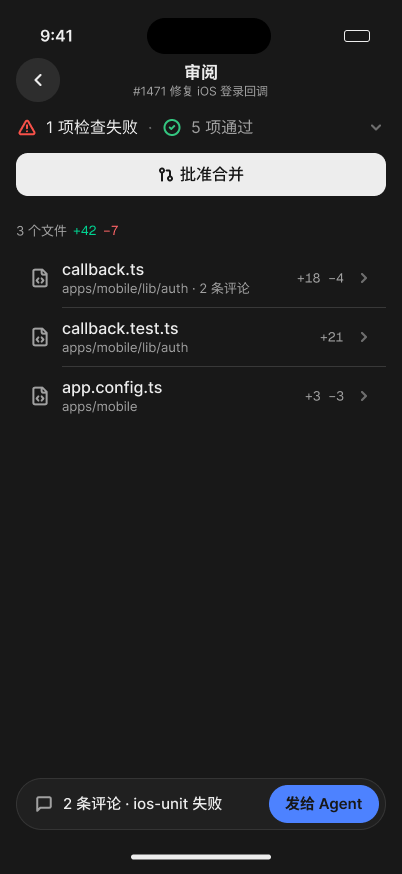
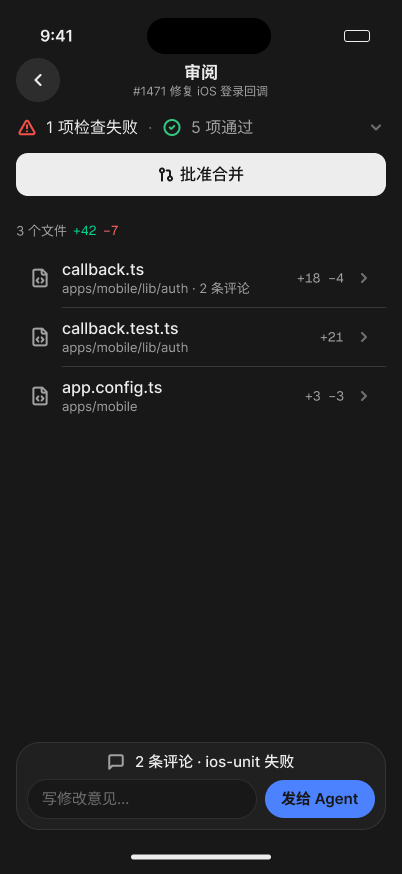
docs(research): iPhone 悬浮条始终有「写修改意见…」，新增 R2b 修改意见 sheet
Claude-Session: https://claude.ai/code/session_01XDndLThEHgcdfvzQakrYDT

Changed region(s): [[0.0896, 0.8341, 0.9552, 0.9577]]

diff --git a/docs/design/decisions/2026-11-08-1230-coding-workspace.md b/docs/design/decisions/2026-11-08-1230-coding-workspace.md
@@ -36,7 +36,8 @@ The frames are a structure sketch, not a visual spec. They are on Figma `zPe5LKy
 | R1b 检查展开 | The check summary expands in place: the failing check with a log excerpt, 查看完整日志 and 附到评论; the passing checks in one row. | `1120:1542` | `1120:1895` |
 | R4 文件 | The top bar's ⋯ is open with 文件 checked (Conductor's All files): the repository tree, with changed files marked, and read-only source on the right. | `1125:22` | `1125:481` |
 | R5 终端 | The top bar's ⋯ is open with 终端 checked (or ⌘J): a bottom drawer on the review page. Teammates see the terminal read-only. | `1125:786` | `1125:1163` |
-| R2 iPhone 审阅 | Opened in one tap from the chat card's summary line. Under one centred title, the first row is the check summary (tap to expand) with 批准合并, then the changed files, and the floating 「N 条评论 · 发给 Agent」 bar. | `1121:54` | `1121:169` |
+| R2 iPhone 审阅 | Opened in one tap from the chat card's summary line. Under one centred title, the first row is the check summary (tap to expand) with 批准合并, then the changed files, and the floating bar: 「N 条评论 · 失败检查」 above 「写修改意见…」 and 发给 Agent. The bar is always there, also with no comments. | `1121:54` | `1121:169` |
+| R2b iPhone 修改意见 | Tap 「写修改意见…」: a sheet titled 「修改意见」 with ✕, a text area and a full-width 「发给 Agent」. A general note can be sent with no line comments; with comments, they go in the same message. | `1134:10` | `1134:119` |
 | R3 iPhone 文件 diff | A file's diff with inline comments and the floating bar. | `1121:274` | `1121:359` |
 | R3b iPhone 加评论 | Tap a line: a sheet titled 「第 22 行」 with the line, an input and 「加入评论」. The comment joins the floating batch. | `1131:224` | `1131:328` |
 | R2a iPhone 任务详情 | The iOS task detail has the summary row 「PR #1471 · +42 −7 · ⚠ 1 项失败 ›」 under the title; one tap opens R2. | `1131:2` | `1131:152` |
@@ -101,6 +102,7 @@ Every state can be reached and left from the screen; none is a dead end.
 | Teammate (R11) | A teammate opens any entry | ✕; disabled actions say why |
 | Fallbacks (R12) | No changes, a change too big, or the machine reclaimed | Per-file 加载; the source line says which checkpoint or PR is shown |
 | iPhone task (R2a) → review (R2) → diff (R3) → add comment (R3b) | The task, then its summary row, then a file, then a line | Back at each step; 加入评论 → R3; 发给 Agent → the task conversation |
+| iPhone note sheet (R2b) | 「写修改意见…」 in R2's floating bar | ✕ or swipe down → R2; 发给 Agent → the task conversation (「你：修改意见」, plus any comments) |
 
 ## Scope
 
@@ -113,6 +115,6 @@ Scope and priorities stay as [#1720](https://github.com/alexj11324/Mikka/issues/
 | Terminal, run actions (#1723, #1727, #1733) | ⋯ › 终端 or ⌘J: a bottom drawer on the review page (R5) |
 | Dev preview, ports (#1724, #1733) | ⋯ › 预览. It opens in the app's browser column (R-57) or a pop-out window |
 | Git history, undo, commit filter (#1726) | 按提交筛选 in the diff header; file and hunk actions on the review page |
-| iPhone | R2, R3 |
+| iPhone | R2, R2b, R3 |
 
 The rest of #1720 (#1728, #1729, #1730, #1734, #1735) keeps its priorities. When any of it gets a surface, it goes on the review page, never as a new tab on the task panel.

diff --git a/docs/research/2026-11-08-coding-workspace-layout.md b/docs/research/2026-11-08-coding-workspace-layout.md
@@ -35,6 +35,7 @@
 | R12 空和兜底状态 | `1130:2689` | `1130:3038` | [浅](assets/2026-11-08-ws-r12-fallbacks-light.png) · [深](assets/2026-11-08-ws-r12-fallbacks-dark.png) |
 | R2a iPhone 任务详情（摘要行 → R2） | `1131:2` | `1131:152` | [浅](assets/2026-11-08-ws-r2a-iphone-task-light.png) · [深](assets/2026-11-08-ws-r2a-iphone-task-dark.png) |
 | R3b iPhone 加评论 | `1131:224` | `1131:328` | [浅](assets/2026-11-08-ws-r3b-iphone-add-comment-light.png) · [深](assets/2026-11-08-ws-r3b-iphone-add-comment-dark.png) |
+| R2b iPhone 修改意见 sheet（悬浮条「写修改意见…」→ 文本框 +「发给 Agent」） | `1134:10` | `1134:119` | [浅](assets/2026-11-08-ws-r2b-iphone-note-light.png) · [深](assets/2026-11-08-ws-r2b-iphone-note-dark.png) |
 | R4 审阅页 · ⋯ 里勾选「文件」：仓库树（改过的文件标 M）和只读源码 | `1125:22` | `1125:481` | [浅](assets/2026-11-08-ws-r4-all-files-light.png) · [深](assets/2026-11-08-ws-r4-all-files-dark.png) |
 | R5 审阅页 · ⋯ 里勾选「终端」：底部终端抽屉 | `1125:786` | `1125:1163` | [浅](assets/2026-11-08-ws-r5-terminal-drawer-light.png) · [深](assets/2026-11-08-ws-r5-terminal-drawer-dark.png) |
 
@@ -42,7 +43,7 @@
 - **任务面板：** 顶行只有「#1471 标题 · ⋯ ⤢ ✕」。⋯ 菜单里先是代码工具（改动 +42 −7 ⌘⇧B、文件、终端 ⌘J、预览），分隔线下是分支名、复制链接、权限（Alex：「只要求你把这些东西放进省略号里边…不是放在省略号的外边」）。标题下第一行是「PR #1471 · 3 个文件 +42 −7 · ⚠ 1 项检查失败 ›」，整行点开审阅页。
 - **审阅页顶栏：** 任务标题、检查摘要（就地展开）、批准合并、⋯、✕；四个代码工具在 ⋯ 里，当前视图打勾。分支名、已看 1/3、快捷键说明都放进 ⋯ 或提示。顶栏上不写 Esc。
 - **窗口栏：** 不变。地球图标留在最右上角（Alex：「浏览器你可以放到最右上角呀」）；移出窗口栏的提议已否决。
-- **iPhone R2：** 一个居中标题，左侧返回，右侧最多一个按钮。第一行是检查摘要和批准合并，下面直接是改动文件。
+- **iPhone R2：** 一个居中标题，左侧返回，右侧最多一个按钮。第一行是检查摘要和批准合并，下面直接是改动文件。悬浮条始终有「写修改意见…」（同桌面），点开是 R2b 的 sheet，没有行内评论也能发。
 
 下文是这个方案之前的调研和草图，保留作为记录。D 帧和 M 帧在 Figma 上已标为「已取代」。
 
